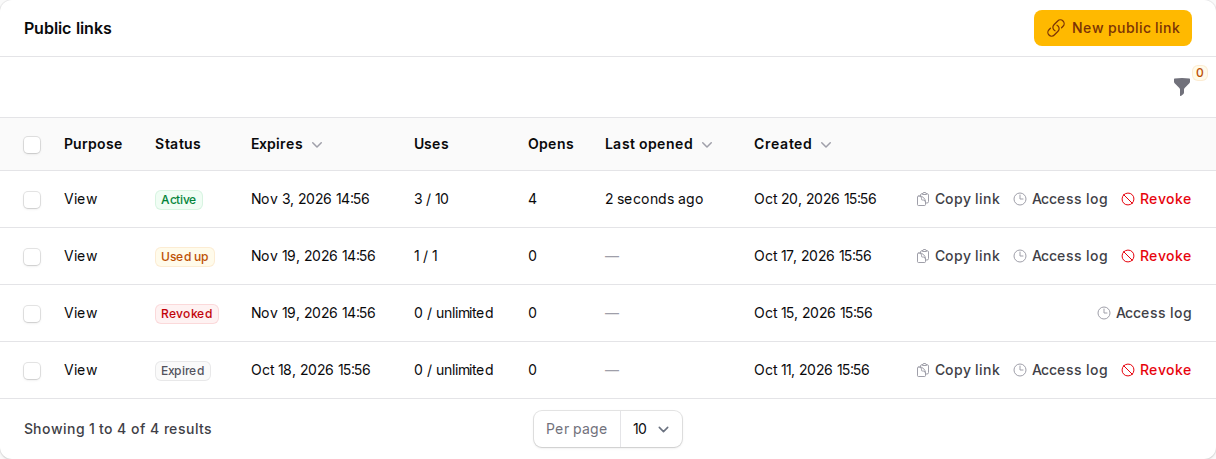
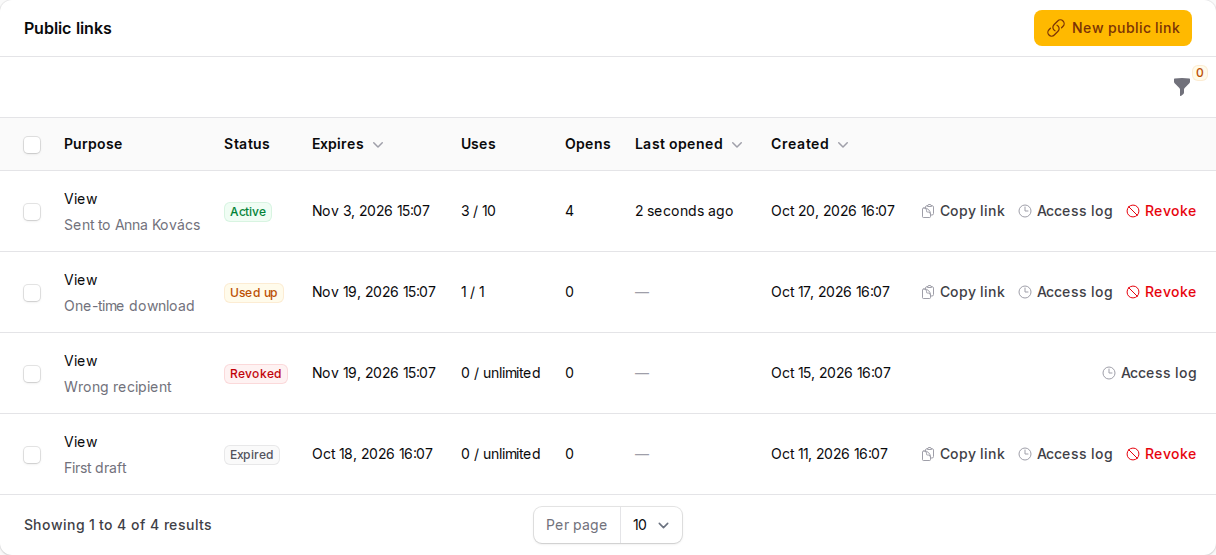
feat: show link note in table and access log
The admin's note on a link ("Sent to Anna") was stored but never shown.
It now appears as a muted second line under the purpose in the
relation manager and in the access log heading ("Access log — note"),
escaped, in English and Hungarian. Screenshots regenerated.

diff --git a/tests/Feature/FilamentTest.php b/tests/Feature/FilamentTest.php
@@ -480,3 +480,35 @@ it('shows the last open relative to now, in the app locale', function (): void {
     app()->setLocale('hu');
     linksTable($quote)->assertSee('3 perce');
 });
+
+it('shows the link note under the purpose and in the access log heading', function (): void {
+    $quote = IntRecord::create(['name' => 'Quote']);
+    $noted = $quote->publicLink('view')->label('Sent to Anna')->issue()->link;
+    $plain = $quote->publicLink('view')->issue()->link;
+
+    linksTable($quote)->assertSee('Sent to Anna');
+
+    linksTable($quote)
+        ->mountTableAction('viewPublicLinkAccessLog', $noted)
+        ->assertMountedActionModalSee('Access log — Sent to Anna');
+
+    linksTable($quote)
+        ->mountTableAction('viewPublicLinkAccessLog', $plain)
+        ->assertMountedActionModalSee('Access log')
+        ->assertMountedActionModalDontSee('Sent to Anna');
+
+    app()->setLocale('hu');
+    linksTable($quote)
+        ->mountTableAction('viewPublicLinkAccessLog', $noted)
+        ->assertMountedActionModalSee('Hozzáférési napló — Sent to Anna');
+});
+
+it('escapes the link note', function (): void {
+    $quote = IntRecord::create(['name' => 'Quote']);
+    $link = $quote->publicLink('view')->label('<script>alert(1)</script>')->issue()->link;
+
+    linksTable($quote)
+        ->assertDontSee('<script>alert(1)</script>', escape: false)
+        ->mountTableAction('viewPublicLinkAccessLog', $link)
+        ->assertMountedActionModalDontSee('<script>alert(1)</script>', escape: false);
+});

diff --git a/src/Filament/RelationManagers/PublicLinksRelationManager.php b/src/Filament/RelationManagers/PublicLinksRelationManager.php
@@ -76,7 +76,9 @@ final class PublicLinksRelationManager extends RelationManager
             ->columns([
                 TextColumn::make('purpose')
                     ->label(IssueLinkForm::label('columns.purpose'))
-                    ->formatStateUsing(static fn (PublicLink $record): string => PurposeLabel::for($record->linkable_type, $record->purpose)),
+                    ->formatStateUsing(static fn (PublicLink $record): string => PurposeLabel::for($record->linkable_type, $record->purpose))
+                    // The admin's note ("Sent to Anna"), as a muted second line when there is one.
+                    ->description(static fn (PublicLink $record): ?string => $record->label),
                 TextColumn::make('status')
                     ->label(IssueLinkForm::label('columns.status'))
                     ->state(static fn (PublicLink $record): string => $record->status()->value)

diff --git a/src/Filament/Actions/ViewAccessLogAction.php b/src/Filament/Actions/ViewAccessLogAction.php
@@ -36,7 +36,9 @@ final class ViewAccessLogAction extends Action
             ->icon('heroicon-o-clock')
             ->color('gray')
             ->slideOver()
-            ->modalHeading(IssueLinkForm::label('actions.access_log.heading'))
+            ->modalHeading(static fn (PublicLink $record): string => $record->label === null
+                ? IssueLinkForm::label('actions.access_log.heading')
+                : __('filament-public-links::filament-public-links.filament.actions.access_log.heading_with_note', ['note' => $record->label]))
             ->modalDescription(IssueLinkForm::label('actions.access_log.description'))
             ->modalContent(static fn (PublicLink $record): View => PackageView::make('filament.access-log',
                 ['accesses' => $record->accesses()->orderByDesc('accessed_at')->orderByDesc('id')->limit(self::LIMIT)->get()],

diff --git a/resources/lang/hu/filament-public-links.php b/resources/lang/hu/filament-public-links.php
@@ -94,6 +94,7 @@ return [
             'access_log' => [
                 'label' => 'Hozzáférési napló',
                 'heading' => 'Hozzáférési napló',
+                'heading_with_note' => 'Hozzáférési napló — :note',
                 'description' => 'A link utolsó 50 lekérése. IP-címet nem tárolunk.',
                 'empty' => 'A linket még nem nyitották meg.',
                 'time' => 'Időpont',

diff --git a/resources/lang/en/filament-public-links.php b/resources/lang/en/filament-public-links.php
@@ -94,6 +94,7 @@ return [
             'access_log' => [
                 'label' => 'Access log',
                 'heading' => 'Access log',
+                'heading_with_note' => 'Access log — :note',
                 'description' => 'The last 50 requests to this link. IP addresses are not stored.',
                 'empty' => 'This link has not been opened yet.',
                 'time' => 'Time',

diff --git a/CHANGELOG.md b/CHANGELOG.md
@@ -25,7 +25,8 @@ First release.
   footer and contact address, light and dark mode, readable on phones; branded 404 and 410 pages.
   Brand per tenant with your own `BrandingResolver`.
 - **Filament UI.** A relation manager for any resource (status, expiry, uses, opens; create, copy,
-  revoke, bulk revoke, access log) and `IssuePublicLinkAction` for any page or table. Permissions
+  revoke, bulk revoke, access log; the admin's note on a link shows under its purpose) and
+  `IssuePublicLinkAction` for any page or table. Permissions
   follow the owner record's `view` / `update` policy, tenancy is respected, and an optional plugin
   sets expiry options, purpose labels and the date format. English and Hungarian.
 - **Security by default.** Tokens are looked up by their SHA-256 hash and compared in constant
